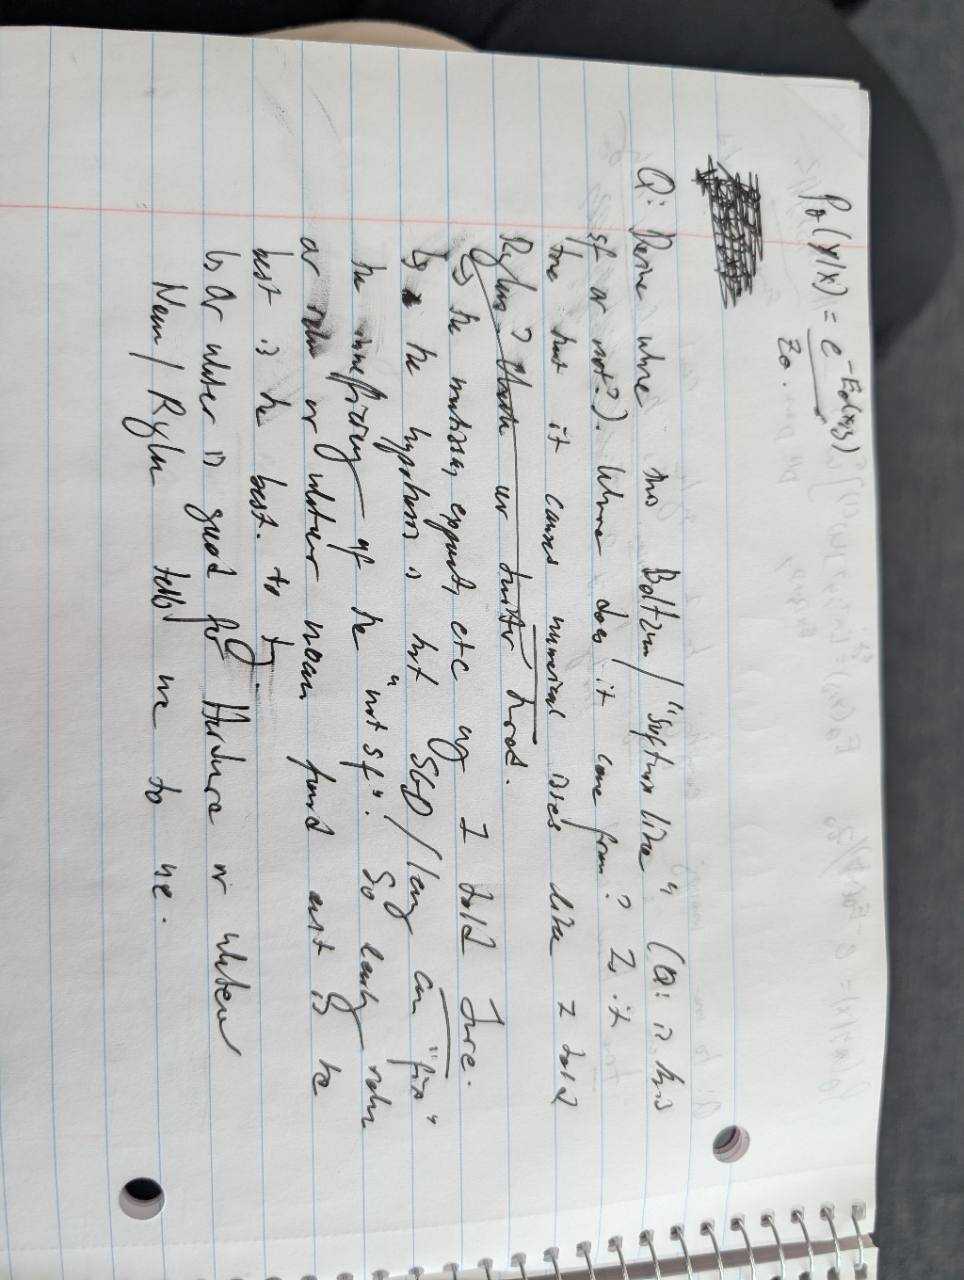
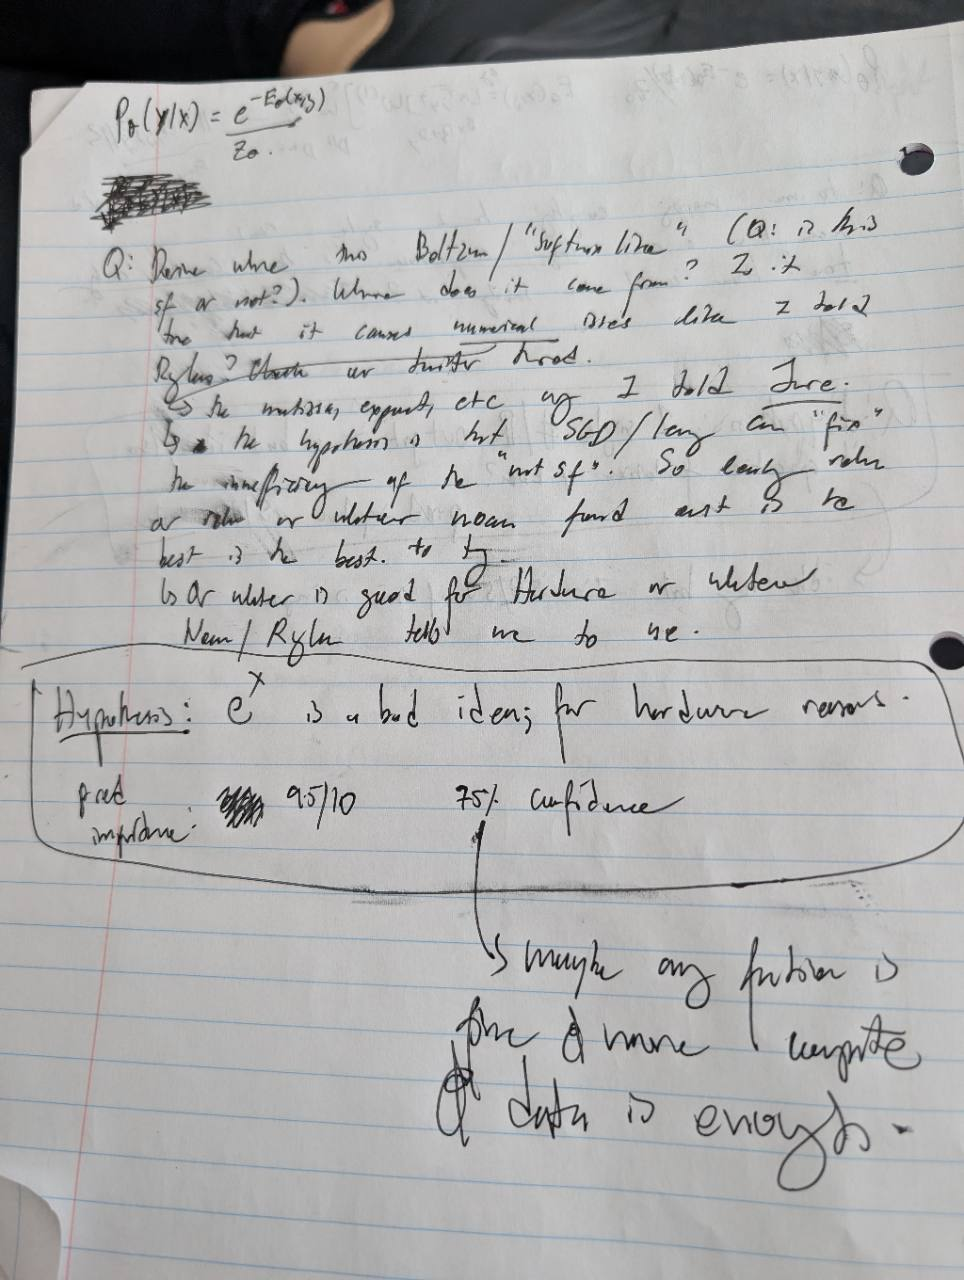
Replace hypothesis source photos

diff --git a/experiments/hypothesis/README.md b/experiments/hypothesis/README.md
@@ -10,8 +10,8 @@ one-sentence goal, confidence, and importance.
 
 ## Index
 
-| ID | Folder | Coding prompt | Source images | GitHub issue | Goal | Confidence | Importance |
+| ID | Folder | Coding prompt | Source image | GitHub issue | Goal | Confidence | Importance |
 | --- | --- | --- | --- | --- | --- | --- | --- |
-| 00 | `00_h_boltzmann_surjection_object` | `coding_agent_prompt.md` | `assets/source_photo.jpg`, `assets/summary_update_photo.jpg` | [#46](https://github.com/brando90/free-energy/issues/46) | Test whether the Boltzmann exponential `exp(-E)` is a bad hardware/inference primitive, and whether another monotone or normalized score can keep the useful ordering without paying exponential/partition-function costs. | ~75% | Very high, ~9.5/10 |
-| 01 | `01_h_interpretable_energy_tags` | `coding_agent_prompt.md` | `assets/source_photo.jpg`, `assets/summary_update_photo.jpg` | [#47](https://github.com/brando90/free-energy/issues/47) | Test whether reducing a rich sequence or representation to one scalar real-valued energy is too lossy for EBMs, unless the energy is structured or decomposed. | ~50% | Medium, 5/10 |
-| 02 | `02_h_unsupervised_ebm_task_structure` | `coding_agent_prompt.md` | `assets/source_photo.jpg`, `assets/summary_update_photo.jpg` | [#48](https://github.com/brando90/free-energy/issues/48) | Test whether transformers/attention already solve the alleged unbounded-length/full-input conditioning issue, leaving little special advantage for EBMs on this axis. | High | Very high, 9.8/10 |
+| 00 | `00_h_boltzmann_surjection_object` | `coding_agent_prompt.md` | `assets/source_photo.jpg` | [#46](https://github.com/brando90/free-energy/issues/46) | Test whether the Boltzmann exponential `exp(-E)` is a bad hardware/inference primitive, and whether another monotone or normalized score can keep the useful ordering without paying exponential/partition-function costs. | ~75% | Very high, ~9.5/10 |
+| 01 | `01_h_interpretable_energy_tags` | `coding_agent_prompt.md` | `assets/source_photo.jpg` | [#47](https://github.com/brando90/free-energy/issues/47) | Test whether reducing a rich sequence or representation to one scalar real-valued energy is too lossy for EBMs, unless the energy is structured or decomposed. | ~50% | Medium, 5/10 |
+| 02 | `02_h_unsupervised_ebm_task_structure` | `coding_agent_prompt.md` | `assets/source_photo.jpg` | [#48](https://github.com/brando90/free-energy/issues/48) | Test whether transformers/attention already solve the alleged unbounded-length/full-input conditioning issue, leaving little special advantage for EBMs on this axis. | High | Very high, 9.8/10 |

diff --git a/experiments/hypothesis/00_h_boltzmann_surjection_object/pre_prompt.md b/experiments/hypothesis/00_h_boltzmann_surjection_object/pre_prompt.md
@@ -20,9 +20,7 @@ partition-function costs.
 ## Source
 
 - Saved source photo: `assets/source_photo.jpg`
-- Saved summary update photo: `assets/summary_update_photo.jpg`
-- Original upload path: `/tmp/codex-remote-attachments/019ec76d-55f8-7671-aed0-2667ac416b8b/0d7a30d9-1e1b-47e1-9e9f-644e9753f2ff/1-Photo-1.jpg`
-- Summary update upload path: `/tmp/codex-remote-attachments/019ec76d-55f8-7671-aed0-2667ac416b8b/ea880cd6-79b2-4fda-ad8e-23ca65ea9c0a/1-Photo-1.jpg`
+- Original upload path: `/tmp/codex-remote-attachments/019ec76d-55f8-7671-aed0-2667ac416b8b/ea880cd6-79b2-4fda-ad8e-23ca65ea9c0a/1-Photo-1.jpg`
 - Visible formula: `p_theta(y | x) = exp(-E_theta(x, y)) / Z_theta(x)`
 - Transcript confidence: low. Re-read the image before finalizing the exact
   research question.
@@ -50,7 +48,7 @@ then decide whether the older surjection/many-to-one reading adds anything.
 
 Plan:
 
-1. Re-transcribe both source photos and write the cleanest possible version of
+1. Re-transcribe the source photo and write the cleanest possible version of
    the one-sentence hypothesis, confidence, and importance.
 2. Formalize the standard object:
    - conditional EBM: `p_theta(y | x) = exp(-E_theta(x, y)) / Z_theta(x)`

diff --git a/experiments/hypothesis/01_h_interpretable_energy_tags/pre_prompt.md b/experiments/hypothesis/01_h_interpretable_energy_tags/pre_prompt.md
@@ -17,9 +17,7 @@ decomposed into token, hidden-state, concept, or tag components.
 ## Source
 
 - Saved source photo: `assets/source_photo.jpg`
-- Saved summary update photo: `assets/summary_update_photo.jpg`
-- Original upload path: `/tmp/codex-remote-attachments/019ec76d-55f8-7671-aed0-2667ac416b8b/0d7a30d9-1e1b-47e1-9e9f-644e9753f2ff/2-Photo-2.jpg`
-- Summary update upload path: `/tmp/codex-remote-attachments/019ec76d-55f8-7671-aed0-2667ac416b8b/ea880cd6-79b2-4fda-ad8e-23ca65ea9c0a/2-Photo-2.jpg`
+- Original upload path: `/tmp/codex-remote-attachments/019ec76d-55f8-7671-aed0-2667ac416b8b/ea880cd6-79b2-4fda-ad8e-23ca65ea9c0a/2-Photo-2.jpg`
 - Visible formulas include a Boltzmann conditional form and a sequence-energy
   expression resembling `E_theta(x_{1:i})`.
 - Transcript confidence: medium-low. Re-read the image before finalizing.
@@ -45,7 +43,7 @@ problem, and whether decomposition fixes it or merely creates post-hoc stories.
 
 Plan:
 
-1. Re-transcribe both photos and identify the intended objects: sequence
+1. Re-transcribe the photo and identify the intended objects: sequence
    prefix, token `x_i`, hidden state `h_i`, concept/tag `c_j`, and scalar
    energy.
 2. Define candidate decompositions:

diff --git a/experiments/hypothesis/02_h_unsupervised_ebm_task_structure/pre_prompt.md b/experiments/hypothesis/02_h_unsupervised_ebm_task_structure/pre_prompt.md
@@ -17,9 +17,7 @@ advantage for EBMs on this axis.
 ## Source
 
 - Saved source photo: `assets/source_photo.jpg`
-- Saved summary update photo: `assets/summary_update_photo.jpg`
-- Original upload path: `/tmp/codex-remote-attachments/019ec76d-55f8-7671-aed0-2667ac416b8b/0d7a30d9-1e1b-47e1-9e9f-644e9753f2ff/3-Photo-3.jpg`
-- Summary update upload path: `/tmp/codex-remote-attachments/019ec76d-55f8-7671-aed0-2667ac416b8b/ea880cd6-79b2-4fda-ad8e-23ca65ea9c0a/3-Photo-3.jpg`
+- Original upload path: `/tmp/codex-remote-attachments/019ec76d-55f8-7671-aed0-2667ac416b8b/ea880cd6-79b2-4fda-ad8e-23ca65ea9c0a/3-Photo-3.jpg`
 - Visible formulas resemble unconditional and conditional EBM normalization.
 - Transcript confidence: medium-low. Re-read the image before finalizing.
 
@@ -45,7 +43,7 @@ that EBMs are being credited with solving.
 
 Plan:
 
-1. Re-transcribe both source photos and separate four claims:
+1. Re-transcribe the source photo and separate four claims:
    - transformers/attention solve the full-input or long-context issue
    - unsupervised EBMs learn semantic/task structure
    - learned energy transfers to downstream tasks

diff --git a/experiments/hypothesis/00_h_boltzmann_surjection_object/issue.md b/experiments/hypothesis/00_h_boltzmann_surjection_object/issue.md
@@ -1,5 +1,4 @@
-**Source artifacts.** Original notebook photo saved at `assets/source_photo.jpg`;
-summary update photo saved at `assets/summary_update_photo.jpg`.
+**Source artifact.** Notebook photo saved at `assets/source_photo.jpg`.
 
 **Coding-agent prompt.** `coding_agent_prompt.md` specifies the real benchmark,
 local smoke test, optional SNAP escalation, deliverables, and verdict criteria.
@@ -27,7 +26,7 @@ more hardware-friendly score/normalization while preserving the ordering,
 search, and calibration properties that matter?
 
 **Tasks**
-- [ ] Re-transcribe both source images and refine the one-sentence hypothesis,
+- [ ] Re-transcribe the source image and refine the one-sentence hypothesis,
   confidence, and importance.
 - [ ] Write the standard EBM derivation for `p_theta(y | x)`,
   `Z_theta(x)`, and `log p_theta(y | x)`.

diff --git a/experiments/hypothesis/01_h_interpretable_energy_tags/issue.md b/experiments/hypothesis/01_h_interpretable_energy_tags/issue.md
@@ -1,5 +1,4 @@
-**Source artifacts.** Original notebook photo saved at `assets/source_photo.jpg`;
-summary update photo saved at `assets/summary_update_photo.jpg`.
+**Source artifact.** Notebook photo saved at `assets/source_photo.jpg`.
 
 **Coding-agent prompt.** `coding_agent_prompt.md` specifies the real synthetic
 sequence experiment, optional SNAP escalation, deliverables, and verdict
@@ -25,7 +24,7 @@ that scalar or from the network computing it.
 EBMs, and do structured/decomposed energy outputs fix anything measurable?
 
 **Tasks**
-- [ ] Re-transcribe both source images and refine the intended variables,
+- [ ] Re-transcribe the source image and refine the intended variables,
   confidence, and importance.
 - [ ] Define why a single real-valued output might be too lossy: optimization,
   credit assignment, interpretability, calibration, or expressivity.

diff --git a/experiments/hypothesis/02_h_unsupervised_ebm_task_structure/issue.md b/experiments/hypothesis/02_h_unsupervised_ebm_task_structure/issue.md
@@ -1,5 +1,4 @@
-**Source artifacts.** Original notebook photo saved at `assets/source_photo.jpg`;
-summary update photo saved at `assets/summary_update_photo.jpg`.
+**Source artifact.** Notebook photo saved at `assets/source_photo.jpg`.
 
 **Coding-agent prompt.** `coding_agent_prompt.md` specifies the real
 long-context experiment, optional SNAP escalation, deliverables, and verdict
@@ -25,7 +24,7 @@ transformers/attention do not already solve, or is attention the main
 mechanism?
 
 **Tasks**
-- [ ] Re-transcribe both source images and refine the exact one-sentence goal,
+- [ ] Re-transcribe the source image and refine the exact one-sentence goal,
   confidence, and importance.
 - [ ] Define the alleged "unbounded length" or full-input conditioning issue
   precisely: context length, recurrence forgetting, global dependency capture,

diff --git a/experiments/hypothesis/00_h_boltzmann_surjection_object/coding_agent_prompt.md b/experiments/hypothesis/00_h_boltzmann_surjection_object/coding_agent_prompt.md
@@ -9,7 +9,7 @@ benchmark is too small to expose the scaling behavior.
 
 - GitHub issue: https://github.com/brando90/free-energy/issues/46
 - Hypothesis notes: `pre_prompt.md`
-- Source images: `assets/source_photo.jpg`, `assets/summary_update_photo.jpg`
+- Source image: `assets/source_photo.jpg`
 
 ## Compact Hypothesis
 

diff --git a/experiments/hypothesis/01_h_interpretable_energy_tags/coding_agent_prompt.md b/experiments/hypothesis/01_h_interpretable_energy_tags/coding_agent_prompt.md
@@ -9,7 +9,7 @@ so the ground-truth tags are known.
 
 - GitHub issue: https://github.com/brando90/free-energy/issues/47
 - Hypothesis notes: `pre_prompt.md`
-- Source images: `assets/source_photo.jpg`, `assets/summary_update_photo.jpg`
+- Source image: `assets/source_photo.jpg`
 
 ## Compact Hypothesis
 

diff --git a/experiments/hypothesis/02_h_unsupervised_ebm_task_structure/coding_agent_prompt.md b/experiments/hypothesis/02_h_unsupervised_ebm_task_structure/coding_agent_prompt.md
@@ -10,7 +10,7 @@ it tests a real alternative.
 
 - GitHub issue: https://github.com/brando90/free-energy/issues/48
 - Hypothesis notes: `pre_prompt.md`
-- Source images: `assets/source_photo.jpg`, `assets/summary_update_photo.jpg`
+- Source image: `assets/source_photo.jpg`
 
 ## Compact Hypothesis
 